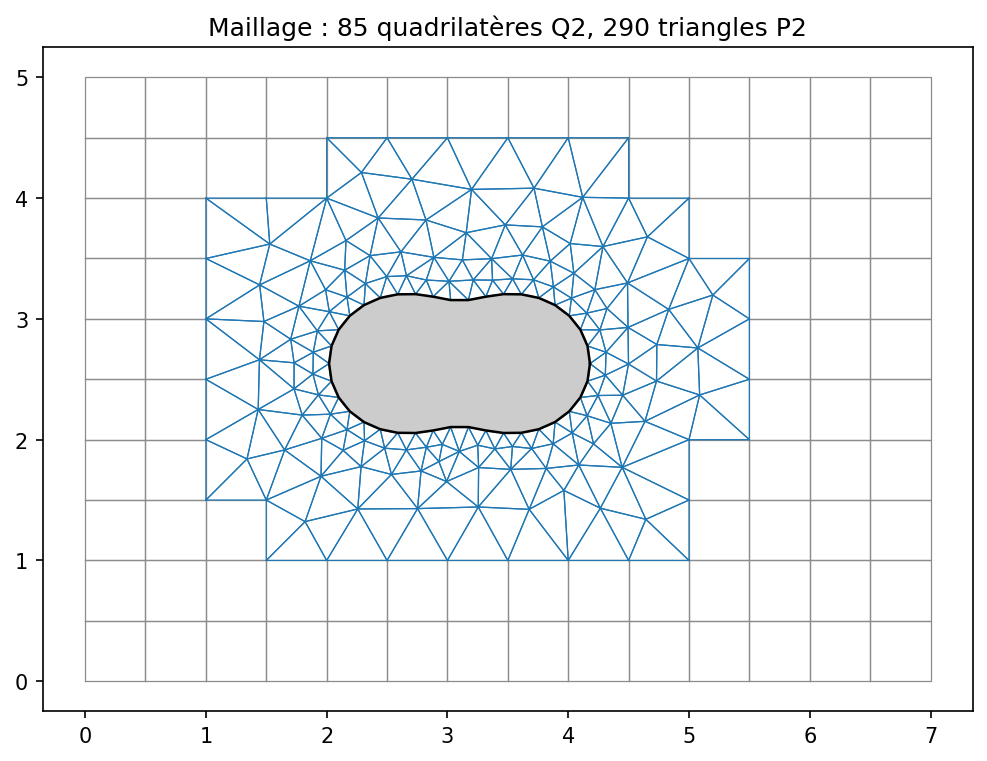
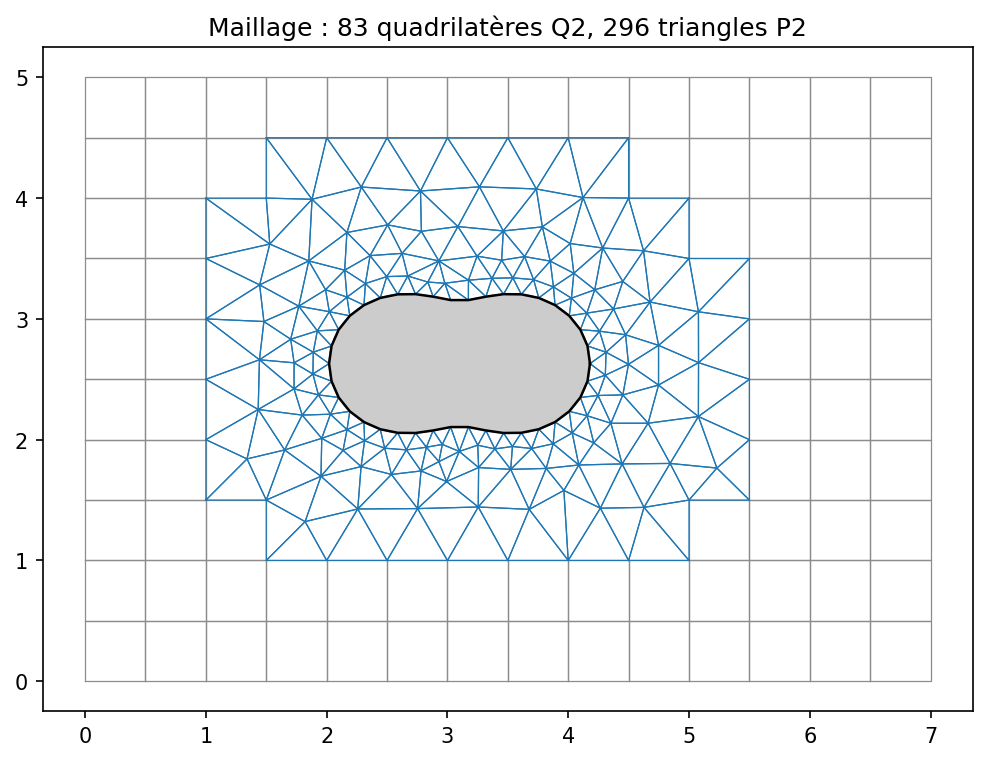
Update_mesh

Changed region(s): [[0.5775, 0.2418, 0.7599, 0.7254], [0.2736, 0.1813, 0.5775, 0.3929], [0.6383, 0.0302, 0.6687, 0.0604]]

diff --git a/FEM2D/code/main.py b/FEM2D/code/main.py
@@ -20,7 +20,7 @@ OUT = os.path.join(os.path.dirname(os.path.abspath(__file__)), "resultats")
 
 # Paramètres par défaut (section 7.1)
 LX, LY = 7.0, 5.0
-H, H_BETA, DELTA, M_BETA = 0.5, 0.15, 0.8, 0.45
+H, H_BETA, DELTA, M_BETA = 0.5, 0.15, 0.8, 1
 DISK = dict(center=(3.5, 2.5), R=1.0)
 PEANUT = dict(center=(3.1, 2.63), r0=0.8, eps=0.35)
 
